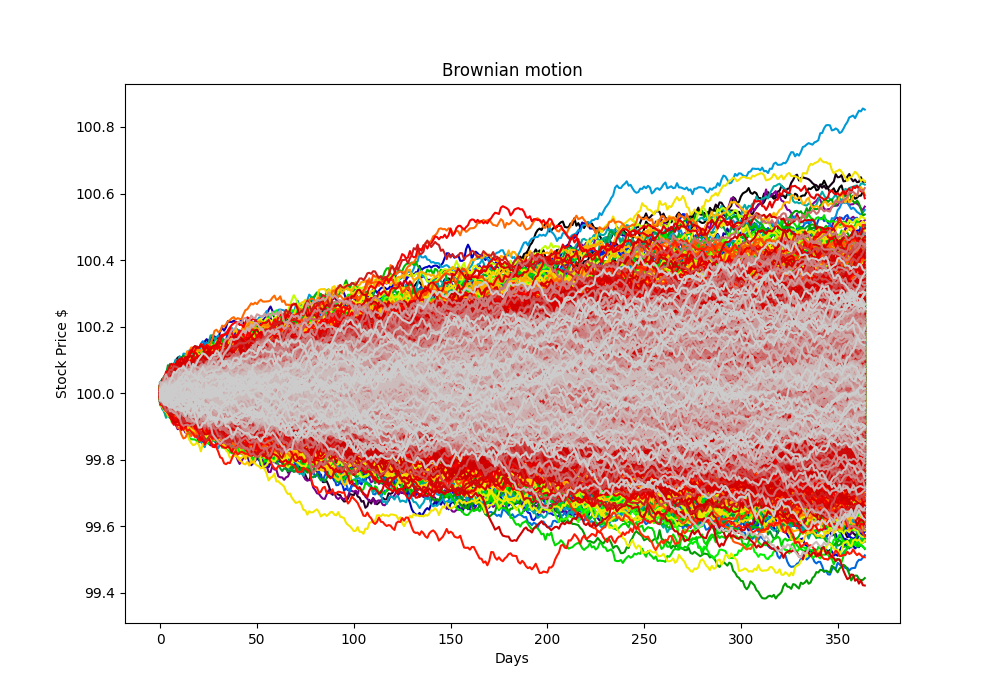
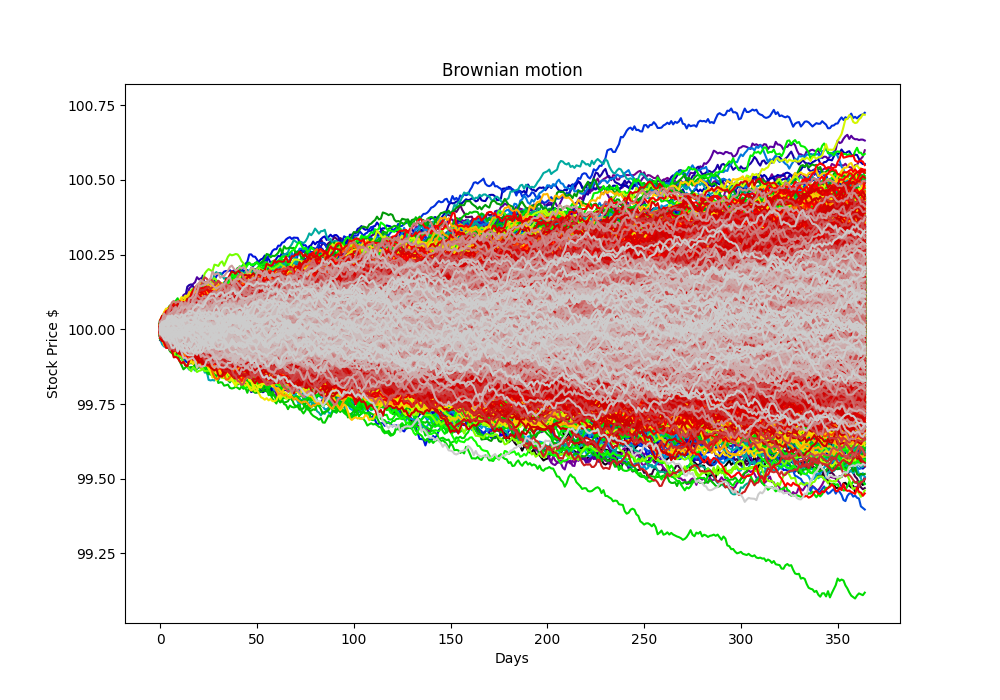
Updated distributions

diff --git a/Assn3/HWK3_Grogan_Cody.py b/Assn3/HWK3_Grogan_Cody.py
@@ -61,12 +61,10 @@ def problem1():
     T = 1
     S_0 = 100
     pathNum = 5000
-    randoms = lambda : np.random.beta(14,6) - .85
+    randoms = lambda : np.random.beta(14,6) - .7
     
-    brownians = [BrownianSimulation(drift, volatility, S_0, dt, T, randoms) for i in range(pathNum)]
-    with multiprocessing.Pool() as pool:
-        paths = pool.map(callSimulate, brownians)
-    
+    brownians = [BrownianSimulation(drift, volatility, S_0, dt, T, randoms) for i in range(pathNum)] 
+    paths = [b.simulate() for b in brownians]
     plotArrays("Brownian motion", "Brownian", "Stock Price $", range(365), paths, "Days")
     
     riskFree = 1.01
@@ -101,12 +99,13 @@ def problem2():
     
     plotArrays("Brownian motion", "Brownian1", "Stock Price $", range(365), paths1, "Days")
 
+
     price2 = dataset2["Stock Price"].values
     
     f = Fitter(price2, distributions=get_common_distributions())
     f.fit(progress=False)
-    print(f.summary())
     params2 = f.get_best(method = 'sumsquare_error')["chi2"]
+    print(params2)
     random2 = lambda params=params2 : stats.chi2.rvs(df=params["df"]) - 1
 
     volatility = 0.5
